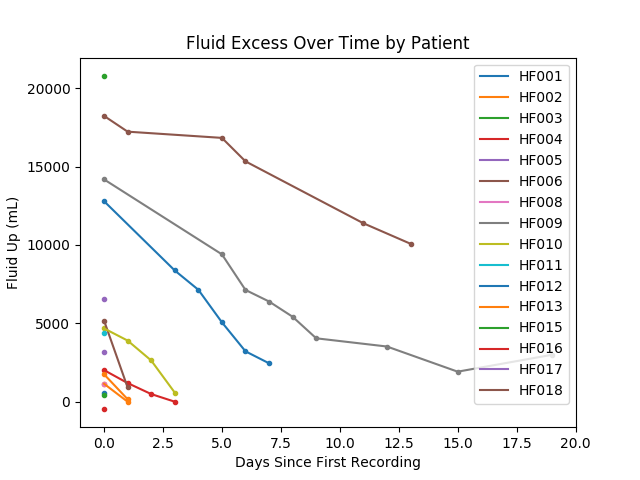
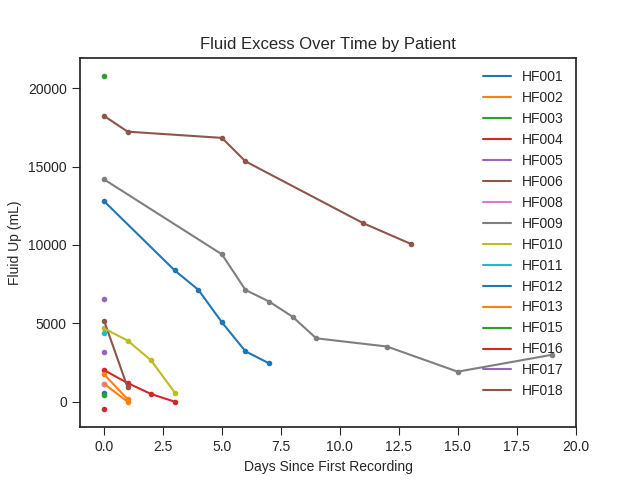
HFanal_fluids updated with utility functions for streamlined  analysis

diff --git a/HFanal_fluids.py b/HFanal_fluids.py
@@ -4,20 +4,42 @@ import HFanal_basicstats as stats
 
 # style selector for pyplot
 # print(plt.style.available)
-# plt.style.use('seaborn-ticks')
+plt.style.use(u'seaborn-ticks')
 
 
-# Utils
+"""Utils for analysis of features based on fluid accumulation"""
+
+
 # function found on: https://stats.stackexchange.com/questions/70801/how-to-normalize-data-to-0-1-range
 def normalize(df):
-    """Normalize a pandas dataframe using min-max normalization, returns a copy"""
-
+    """Column normalize a pandas dataframe using min-max normalization, returns a copy"""
     result = df.copy()
     for feature_name in df.columns:
         max_value = df[feature_name].max()
         min_value = df[feature_name].min()
         result[feature_name] = (df[feature_name] - min_value) / (max_value - min_value)
     return result
+
+
+def get_visit_dict(pat_idx):
+    """returns a dict keyed by patient id containing a tuple of lists ([dated record ids], [days since admission])"""
+    features = _get_patient_features()
+    date_series = pd.to_datetime(features['Date of Recordings'], infer_datetime_format=True)
+    visit_dict = {}
+    for pat in pat_idx:
+        record_ids = _extract_record_names(features, pat)
+        base_date = date_series[record_ids[0]]
+        num_days = []
+        for entry in record_ids:
+            num_days.append(int((date_series[entry] - base_date).days))
+        visit_dict[pat] = (record_ids, num_days)
+    return visit_dict
+
+
+def get_fluids(record_id):
+    """return the fluid overload in mL for the corresponding record id"""
+    df = _get_patient_recordings()
+    return df.loc[record, 'Fluid Up (mL)']
 
 
 def _extract_record_names(df, pat):
@@ -27,45 +49,41 @@ def _extract_record_names(df, pat):
     return records.str.extractall(expr)[0].tolist()
 
 
+def _get_patient_recordings():
+    return pd.read_csv('features/recordings_HF.csv', index_col=0, usecols=range(9))
+
+
+def _get_patient_features():
+    """returns a features df, merges in date columns for utility"""
+    recordings = _get_patient_recordings()
+    features = pd.read_csv('features/audio_features_HF.csv', index_col=0, usecols=range(13))
+    dates = recordings['Date of Recordings']
+    return features.merge(pd.DataFrame(dates), left_index=True, right_index=True)
+
+
 """Represent patient fluid flow as time series for review"""
 
-recordings = pd.read_csv('features/recordings_HF.csv', index_col=0, usecols=range(9))
-features = pd.read_csv('features/audio_features_HF.csv', index_col=0, usecols=range(13))
-dates = recordings['Date of Recordings']
-features = features.merge(pd.DataFrame(dates), left_index=True, right_index=True)
 # HF007 omitted from full index because of multiple admission problem (09/03/18)
 pat_full_idx = ['HF001', 'HF002', 'HF003', 'HF004', 'HF005', 'HF006', 'HF008', 'HF009',
                 'HF010', 'HF011', 'HF012', 'HF013', 'HF015', 'HF016', 'HF017', 'HF018']
+features = _get_patient_features()
+recordings = _get_patient_recordings()
 
-# visit_dict is a dict-of-dicts that maps ID to a dict of days since admission keye by record ID
-#  Ex: {ID: (ID_MMDDYY, list)}
-date_series = pd.to_datetime(features['Date of Recordings'], infer_datetime_format=True)
-visit_dict = {}
-for pat in pat_full_idx:
-    record_ids = _extract_record_names(features, pat)
-    base_date = date_series[record_ids[0]]
-    num_days = []
-    for entry in record_ids:
-        num_days.append(int((date_series[entry] - base_date).days))
-    visit_dict[pat] = (record_ids, num_days)
-
-
-legend = []
-lgd = pat_full_idx[:]
+visit_dict = get_visit_dict(features, pat_full_idx)
 for pat in pat_full_idx:
     y_vals = []
     for record in _extract_record_names(features, pat):
-        y_vals.append(recordings.loc[record, 'Fluid Up (mL)'])
+        y_vals.append(get_fluids(record, recordings))
     plt.plot(visit_dict[pat][1], y_vals)
     plt.scatter(visit_dict[pat][1], y_vals, marker='.')
 
 plt.title('Fluid Excess Over Time by Patient')
 plt.xlabel('Days Since First Recording')
 plt.ylabel('Fluid Up (mL)')
-plt.legend(lgd)
+plt.legend(pat_full_idx)
 # save results
-plt.savefig('HF_results/figures/fluid_loss.png', format='png')
-plt.close()
+# plt.savefig('HF_results/figures/fluid_loss.png', format='png')
+# plt.close()
 
 # show results
-# plt.show()
+plt.show()
